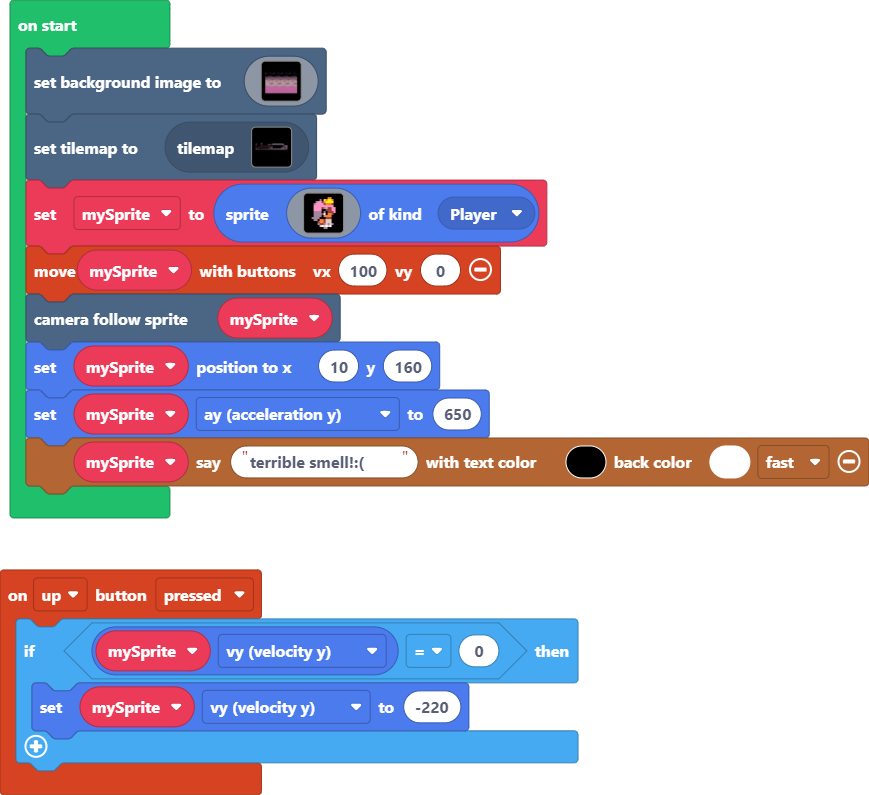
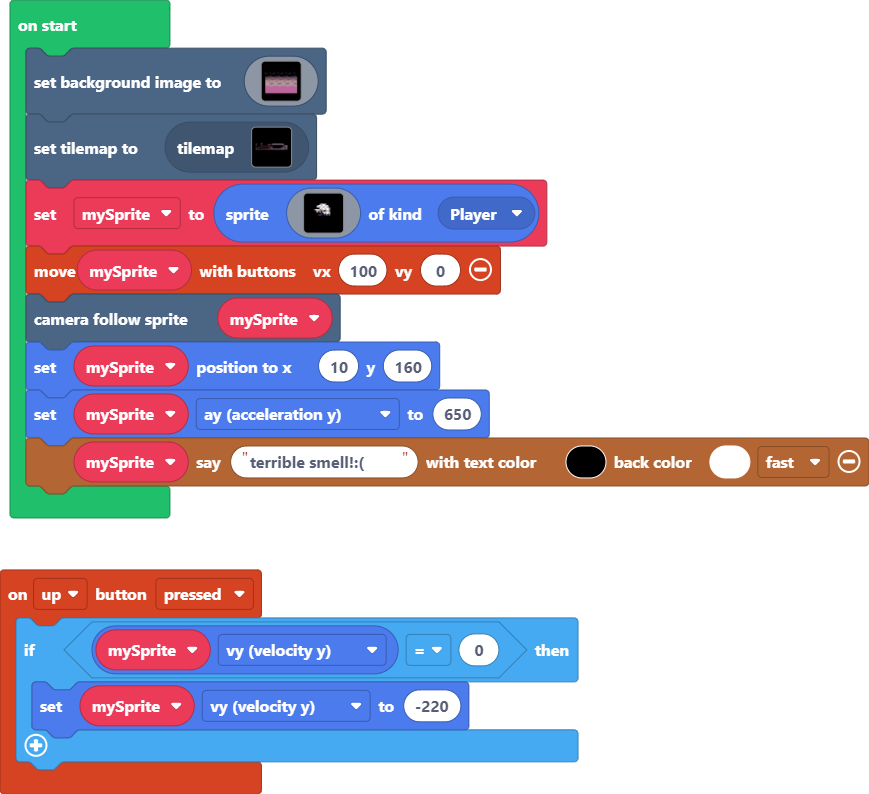
Update main.blocks, main.ts

diff --git a/main.ts b/main.ts
@@ -128,22 +128,30 @@ scene.setBackgroundImage(img`
     `)
 tiles.setCurrentTilemap(tilemap`level1`)
 mySprite = sprites.create(img`
-    . . . . . . f f f f 4 4 f . . . 
-    . . . . f f b f 5 4 5 5 4 f . . 
-    . . . f b 3 3 e 4 5 5 5 5 f . . 
-    . . f b 3 3 3 3 e 4 4 4 e f . . 
-    . . f 3 3 3 3 3 3 3 3 3 3 f . . 
-    . . f 3 3 3 3 e b 3 e e 3 3 f . 
-    . . f 3 3 3 3 f f e e e 3 3 f . 
-    . . f b b b b f b f e e e 3 f . 
-    . . f b b b b e 1 f 4 4 e f . . 
-    . f f b b b b f 4 4 4 4 f . . . 
-    . f b b b b f f f e e e f . . . 
-    . . f b b f 4 4 e d d d f . . . 
-    . . . f f e 4 4 e d d d f . . . 
-    . . . . f b e e b d b d b f . . 
-    . . . . f f d 1 d 1 d 1 f f . . 
-    . . . . . . f f b b f f . . . . 
+    ........................
+    ........................
+    ........................
+    ........................
+    .........fffff..........
+    .......ffb1111ff........
+    ......fb1111111bf.......
+    ......f111111111f.......
+    .....ffff1111111df......
+    ....fb111c1dd111df......
+    ....ffb1b1fdcf11bf......
+    .....ffbfbfb11111f......
+    ......ffffcfdb1b1f......
+    .......fcccfcfbfbf......
+    ........ffffffffff......
+    .........ffffff.........
+    .........ffffff.........
+    .....f..fffffff.........
+    .....fffffffff..........
+    ......fffffff...........
+    ........................
+    ........................
+    ........................
+    ........................
     `, SpriteKind.Player)
 controller.moveSprite(mySprite, 100, 0)
 scene.cameraFollowSprite(mySprite)
